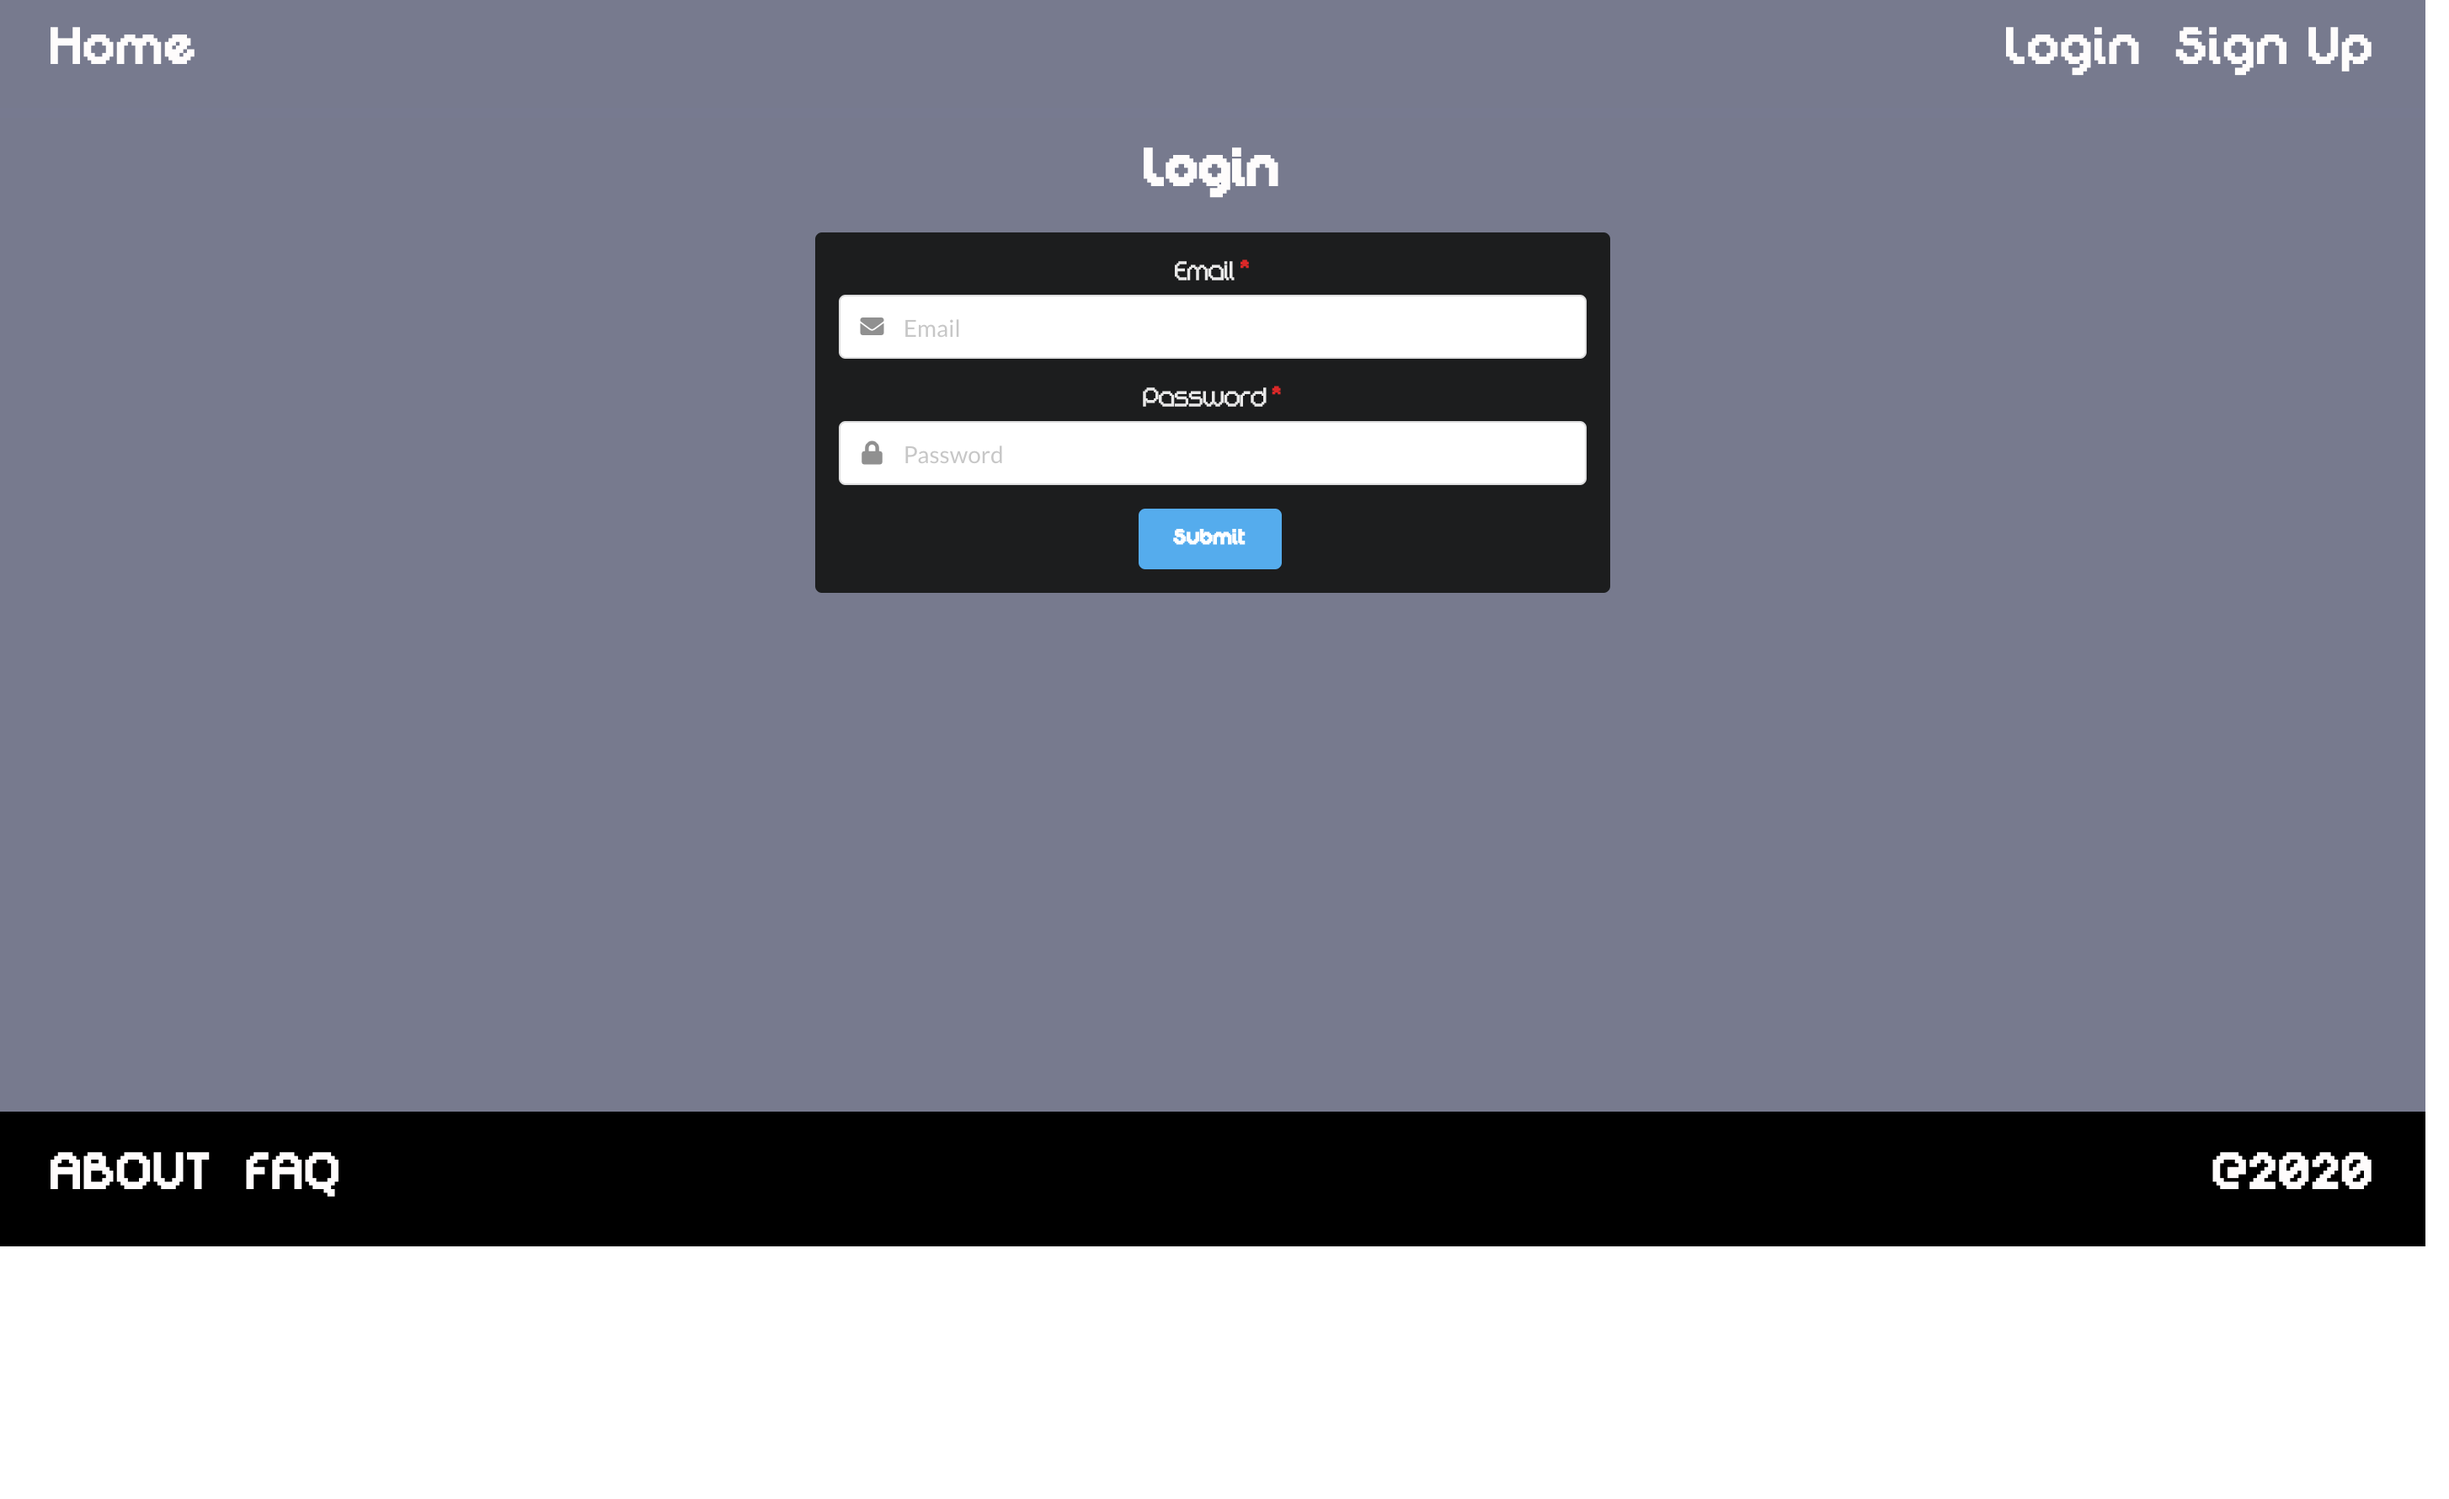
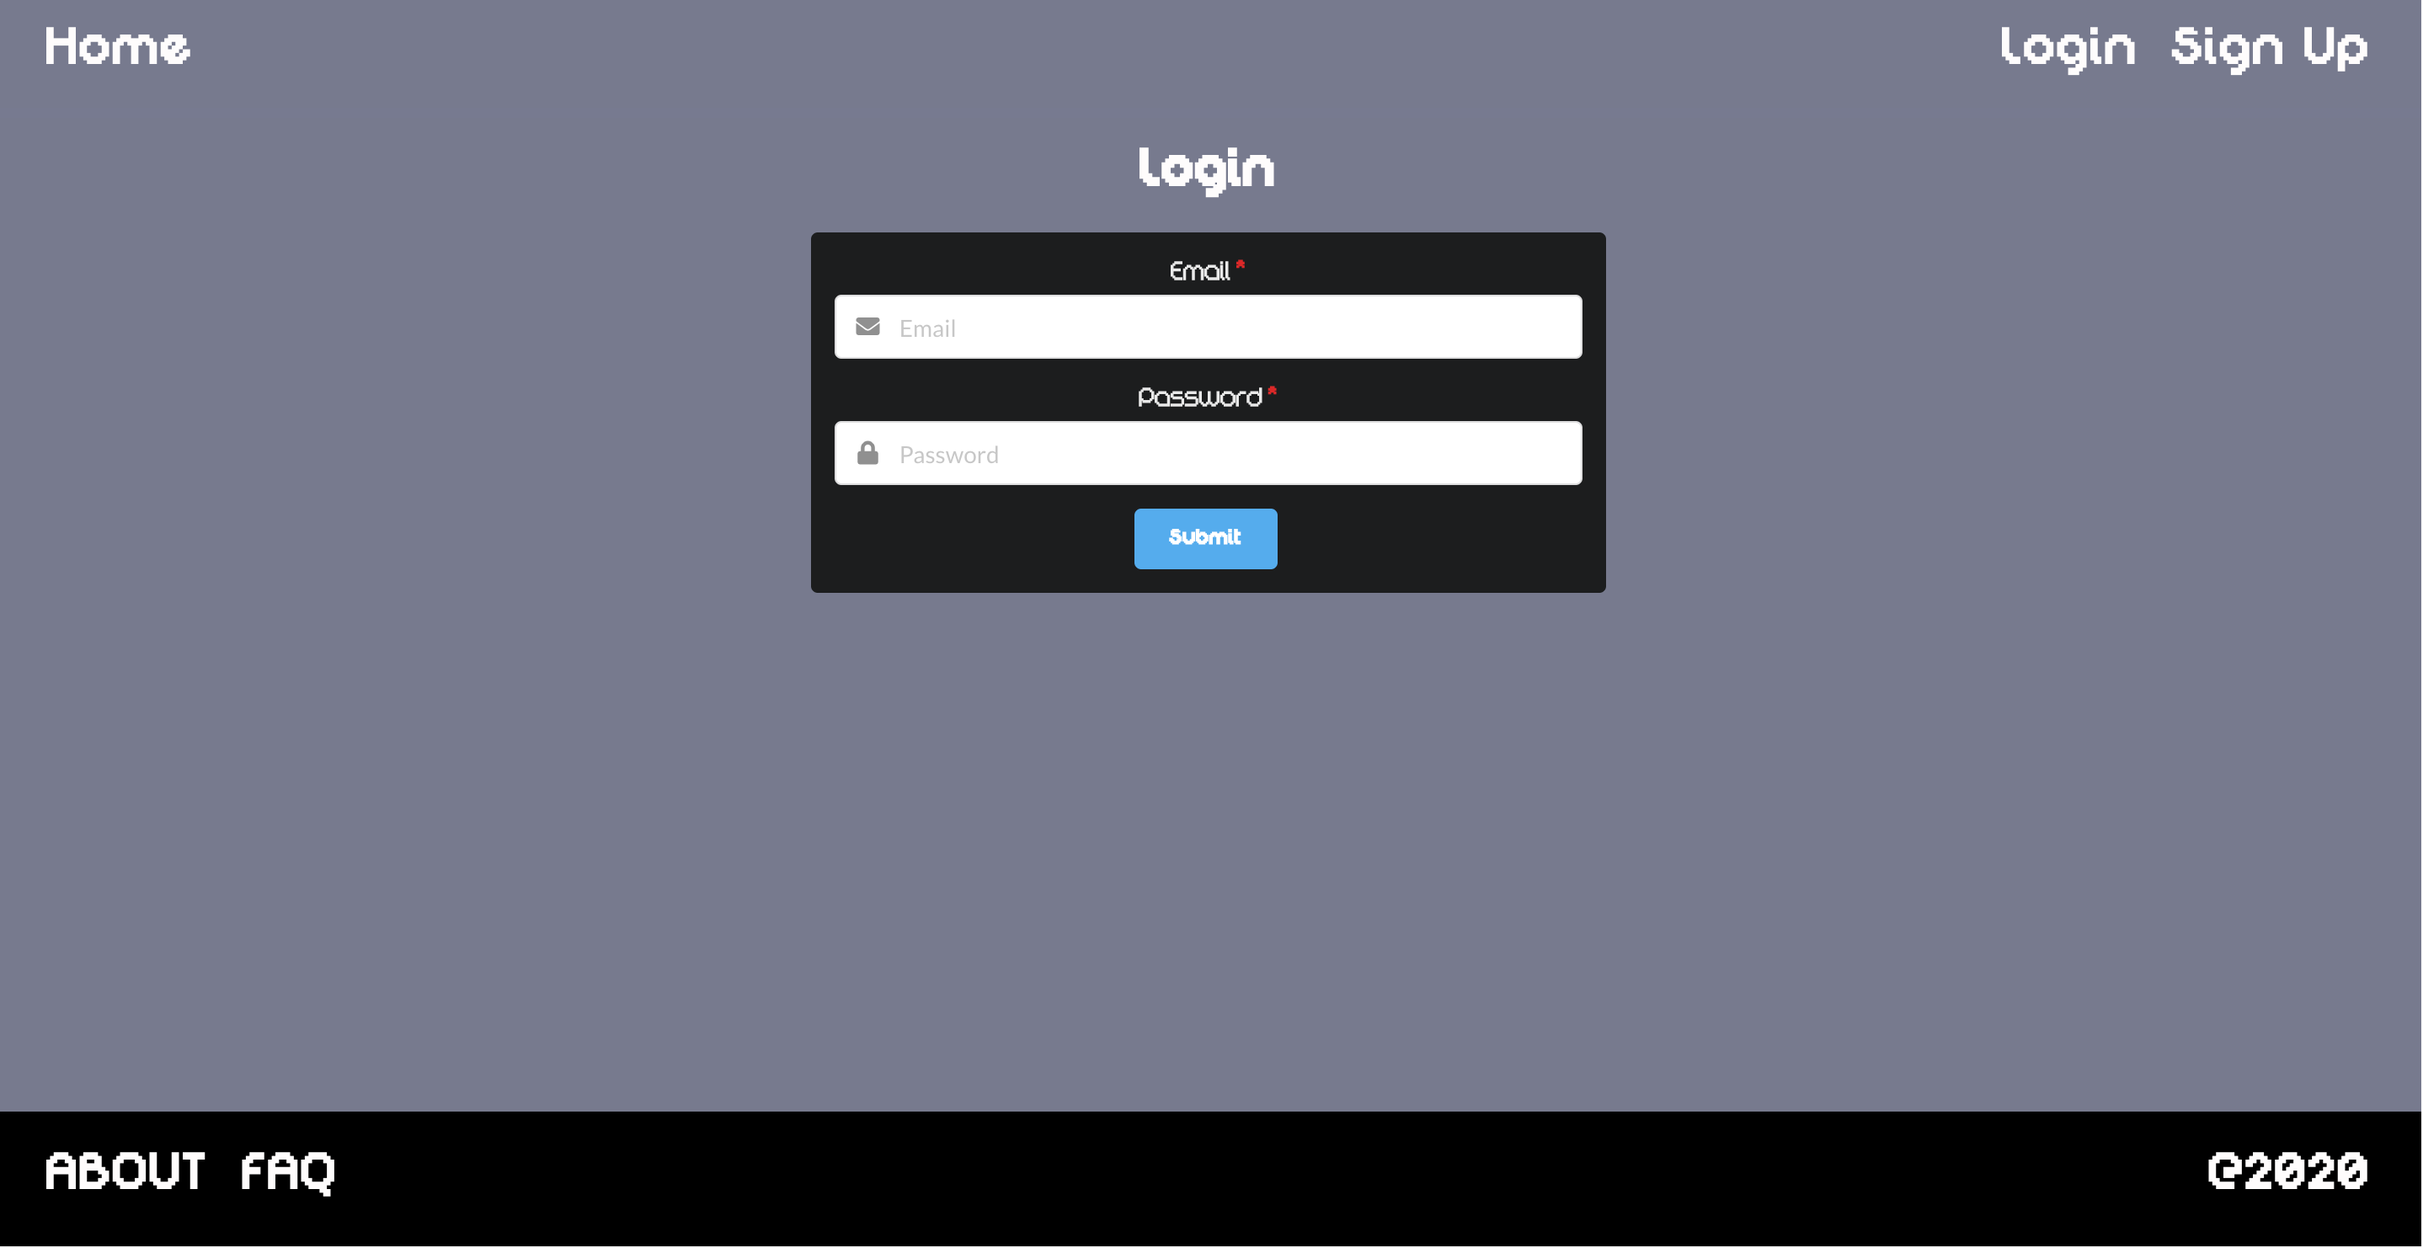
added screenshots section to readme

diff --git a/README.md b/README.md
@@ -100,7 +100,7 @@ This will load the React front-end of Plantogotchi in a new tab of your default 
 
 3: This application require an installation of PostgreSQL to run which can download from the following -https://www.postgresql.org/download/
 
-Run the following commands in the order listed below
+Run the following commands in the order listed below:
 
 Install rails dependencies
 ```
@@ -118,7 +118,7 @@ Seed the database with different plants breed and test users
 ```
 rails db:seed
 ```
-start the rails server
+Start the rails server
 ```
 rails start
 ```
@@ -263,14 +263,14 @@ Project Management Tools
 
 ### Back-end Library
 
-| #    | Library                                                      |
-| ---- | ------------------------------------------------------------ |
-| 1    | Rubocop-rails: A [RuboCop](https://github.com/rubocop-hq/rubocop) extension focused on enforcing Rails best practices and coding conventions. |
-| 2    | Aws-sdk-s3: AWS S3 SDK for Ruby, allows Ruby/Rails to integrate easily with a AWS S3 Bucket. |
-| 3    | Rspec-rails: Allows us to integrate the RSpec testing framework into rails. Provides many helper methods and internal libraries for writing automated tests. |
-| 4    | Shoulda-matchers: Providers one-liners that plug-in to RSPec or Minitest. Simplifies writing tests and reduces chance of writing broken tests. |
-| 5    | Database_cleaner: A set of gems that allows us to clear/reset out database during tests as to not effect our development/production databases and to avoid cross-contamination of database entries between tests. |
-| 6    | Simplecov: A code coverage analysis tool for Ruby, allows us to easily/automatically find out what percentage of our codebase is being tested and gives insight into specific areas requiring more attention. |
+| #   | Library                                                                                                                                                                                                           |
+| --- | ----------------------------------------------------------------------------------------------------------------------------------------------------------------------------------------------------------------- |
+| 1   | Rubocop-rails: A [RuboCop](https://github.com/rubocop-hq/rubocop) extension focused on enforcing Rails best practices and coding conventions.                                                                     |
+| 2   | Aws-sdk-s3: AWS S3 SDK for Ruby, allows Ruby/Rails to integrate easily with a AWS S3 Bucket.                                                                                                                      |
+| 3   | Rspec-rails: Allows us to integrate the RSpec testing framework into rails. Provides many helper methods and internal libraries for writing automated tests.                                                      |
+| 4   | Shoulda-matchers: Providers one-liners that plug-in to RSPec or Minitest. Simplifies writing tests and reduces chance of writing broken tests.                                                                    |
+| 5   | Database_cleaner: A set of gems that allows us to clear/reset out database during tests as to not effect our development/production databases and to avoid cross-contamination of database entries between tests. |
+| 6   | Simplecov: A code coverage analysis tool for Ruby, allows us to easily/automatically find out what percentage of our codebase is being tested and gives insight into specific areas requiring more attention.     |
 
 
 
@@ -471,6 +471,43 @@ Below is a demo for the wire-frame, clicking on this [**link**](https://www.figm
 
 Please visit this [**link**](https://www.figma.com/file/bPJuz1UPRUSFjCFz4lDSTF/CODER-FINALPROJECT-A?node-id=0%3A1) to view the wire-frames. Navigate to the prototype tab in Figma will highlight the relationship between each pages in greater detail.
 
+## Screenshots
+
+---
+
+Home Page
+
+<img src="./docs/screenshots/home.png" width="80%">
+
+About Page
+
+<img src="./docs/screenshots/about.png" width="80%">
+
+Faq Page
+
+<img src="./docs/screenshots/faq.png" width="80%">
+
+Login Page
+
+<img src="./docs/screenshots/login.png" width="80%">
+
+Sign Up Page
+
+<img src="./docs/screenshots/signup.png" width="80%">
+
+Tablet Plants
+
+<img src="./docs/screenshots/tablet-plant.png" width="60%">
+
+Tablet App Interaction Screen
+
+<img src="./docs/screenshots/tablet-app.png" width="60%">
+
+Mobile friendly
+
+<img src="./docs/screenshots/mobile-friendly.png" width="60%">
+
+
 ## Task Management
 
 ---
@@ -485,28 +522,63 @@ Below is the Trello board progress for Part A of the project:
 
 Trello Link:
 
-https://trello.com/b/DdUvzfZU/final-project-part-a-coder
+Part A - https://trello.com/b/DdUvzfZU/final-project-part-a-coder
+
+Part B - https://trello.com/b/ohUHrh5w/final-project-part-b-coder
+
+### Part A (Design Phase)
+
+---
 
 Day One:
 
 On Day One we mainly focused on gathering inspiration and delegating the first set of tasks to individual team members according to their strengths and weaknesses. Day one is relatively empty because we spent a huge amount of our time having a meeting to plan out the features of the application, in accordance to the criteria for the project. 
 
-<img src="./docs/Trello/DAY-1.png" width="80%">
+<img src="./docs/Trello-A/DAY-1.png" width="80%">
 
 Day Two:
 
 Day Two represents the starting point of the project, we had a quick meeting in the morning to discuss and delegate the tasks for the day. During the meeting we created the ERD as a team (via pair programming) so we both understand the information we need to store for the application. We also spent the entire day planning and setting up the overall objectives to effectively meet the deadline of the project.
 
-<img src="./docs/Trello/DAY-2.png" width="80%">
+<img src="./docs/Trello-A/DAY-2.png" width="80%">
 
 Day Three:
 
 Day Three involves starting and finishing off the design elements of the application such as wire-frames, user stories and discussing about the features we need to create in order to meet our MVP for the application. Today we also studied the criteria in more details to ensure we are meeting the requirements for Distinction to High Distinction for the assessment.
 
-<img src="./docs/Trello/DAY-3.png" width="80%">
+<img src="./docs/Trello-A/DAY-3.png" width="80%">
 
 Day Four:
 
 Day Four was the designated final day we allocated for Part A of the project as we wanted to prioritise development time to work on Part B. Day four mainly involve proofreading the Readme and adding all relevant details to ensure we met the set criteria of the assessment. We also included attachments within the Trello cards to showcase the tasks we have completed as well as to gather input in regards to what else we needed to include in our documentation. 
 
-<img src="./docs/Trello/DAY-4.png" width="80%">
+<img src="./docs/Trello-A/DAY-4.png" width="80%">
+
+
+### Part B (Building Phase)
+
+---
+
+Day One:
+
+On Day One we mainly focused on gathering inspiration and delegating the first set of tasks to individual team members according to their strengths and weaknesses. Day one is relatively empty because we spent a huge amount of our time having a meeting to plan out the features of the application, in accordance to the criteria for the project. 
+
+<img src="./docs/Trello-B/DAY-1.png" width="80%">
+
+Day Two:
+
+Day Two represents the starting point of the project, we had a quick meeting in the morning to discuss and delegate the tasks for the day. During the meeting we created the ERD as a team (via pair programming) so we both understand the information we need to store for the application. We also spent the entire day planning and setting up the overall objectives to effectively meet the deadline of the project.
+
+<img src="./docs/Trello-B/DAY-2.png" width="80%">
+
+Day Three:
+
+Day Three involves starting and finishing off the design elements of the application such as wire-frames, user stories and discussing about the features we need to create in order to meet our MVP for the application. Today we also studied the criteria in more details to ensure we are meeting the requirements for Distinction to High Distinction for the assessment.
+
+<img src="./docs/Trello-B/DAY-3.png" width="80%">
+
+Day Four:
+
+Day Four was the designated final day we allocated for Part A of the project as we wanted to prioritise development time to work on Part B. Day four mainly involve proofreading the Readme and adding all relevant details to ensure we met the set criteria of the assessment. We also included attachments within the Trello cards to showcase the tasks we have completed as well as to gather input in regards to what else we needed to include in our documentation. 
+
+<img src="./docs/Trello-B/DAY-4.png" width="80%">
